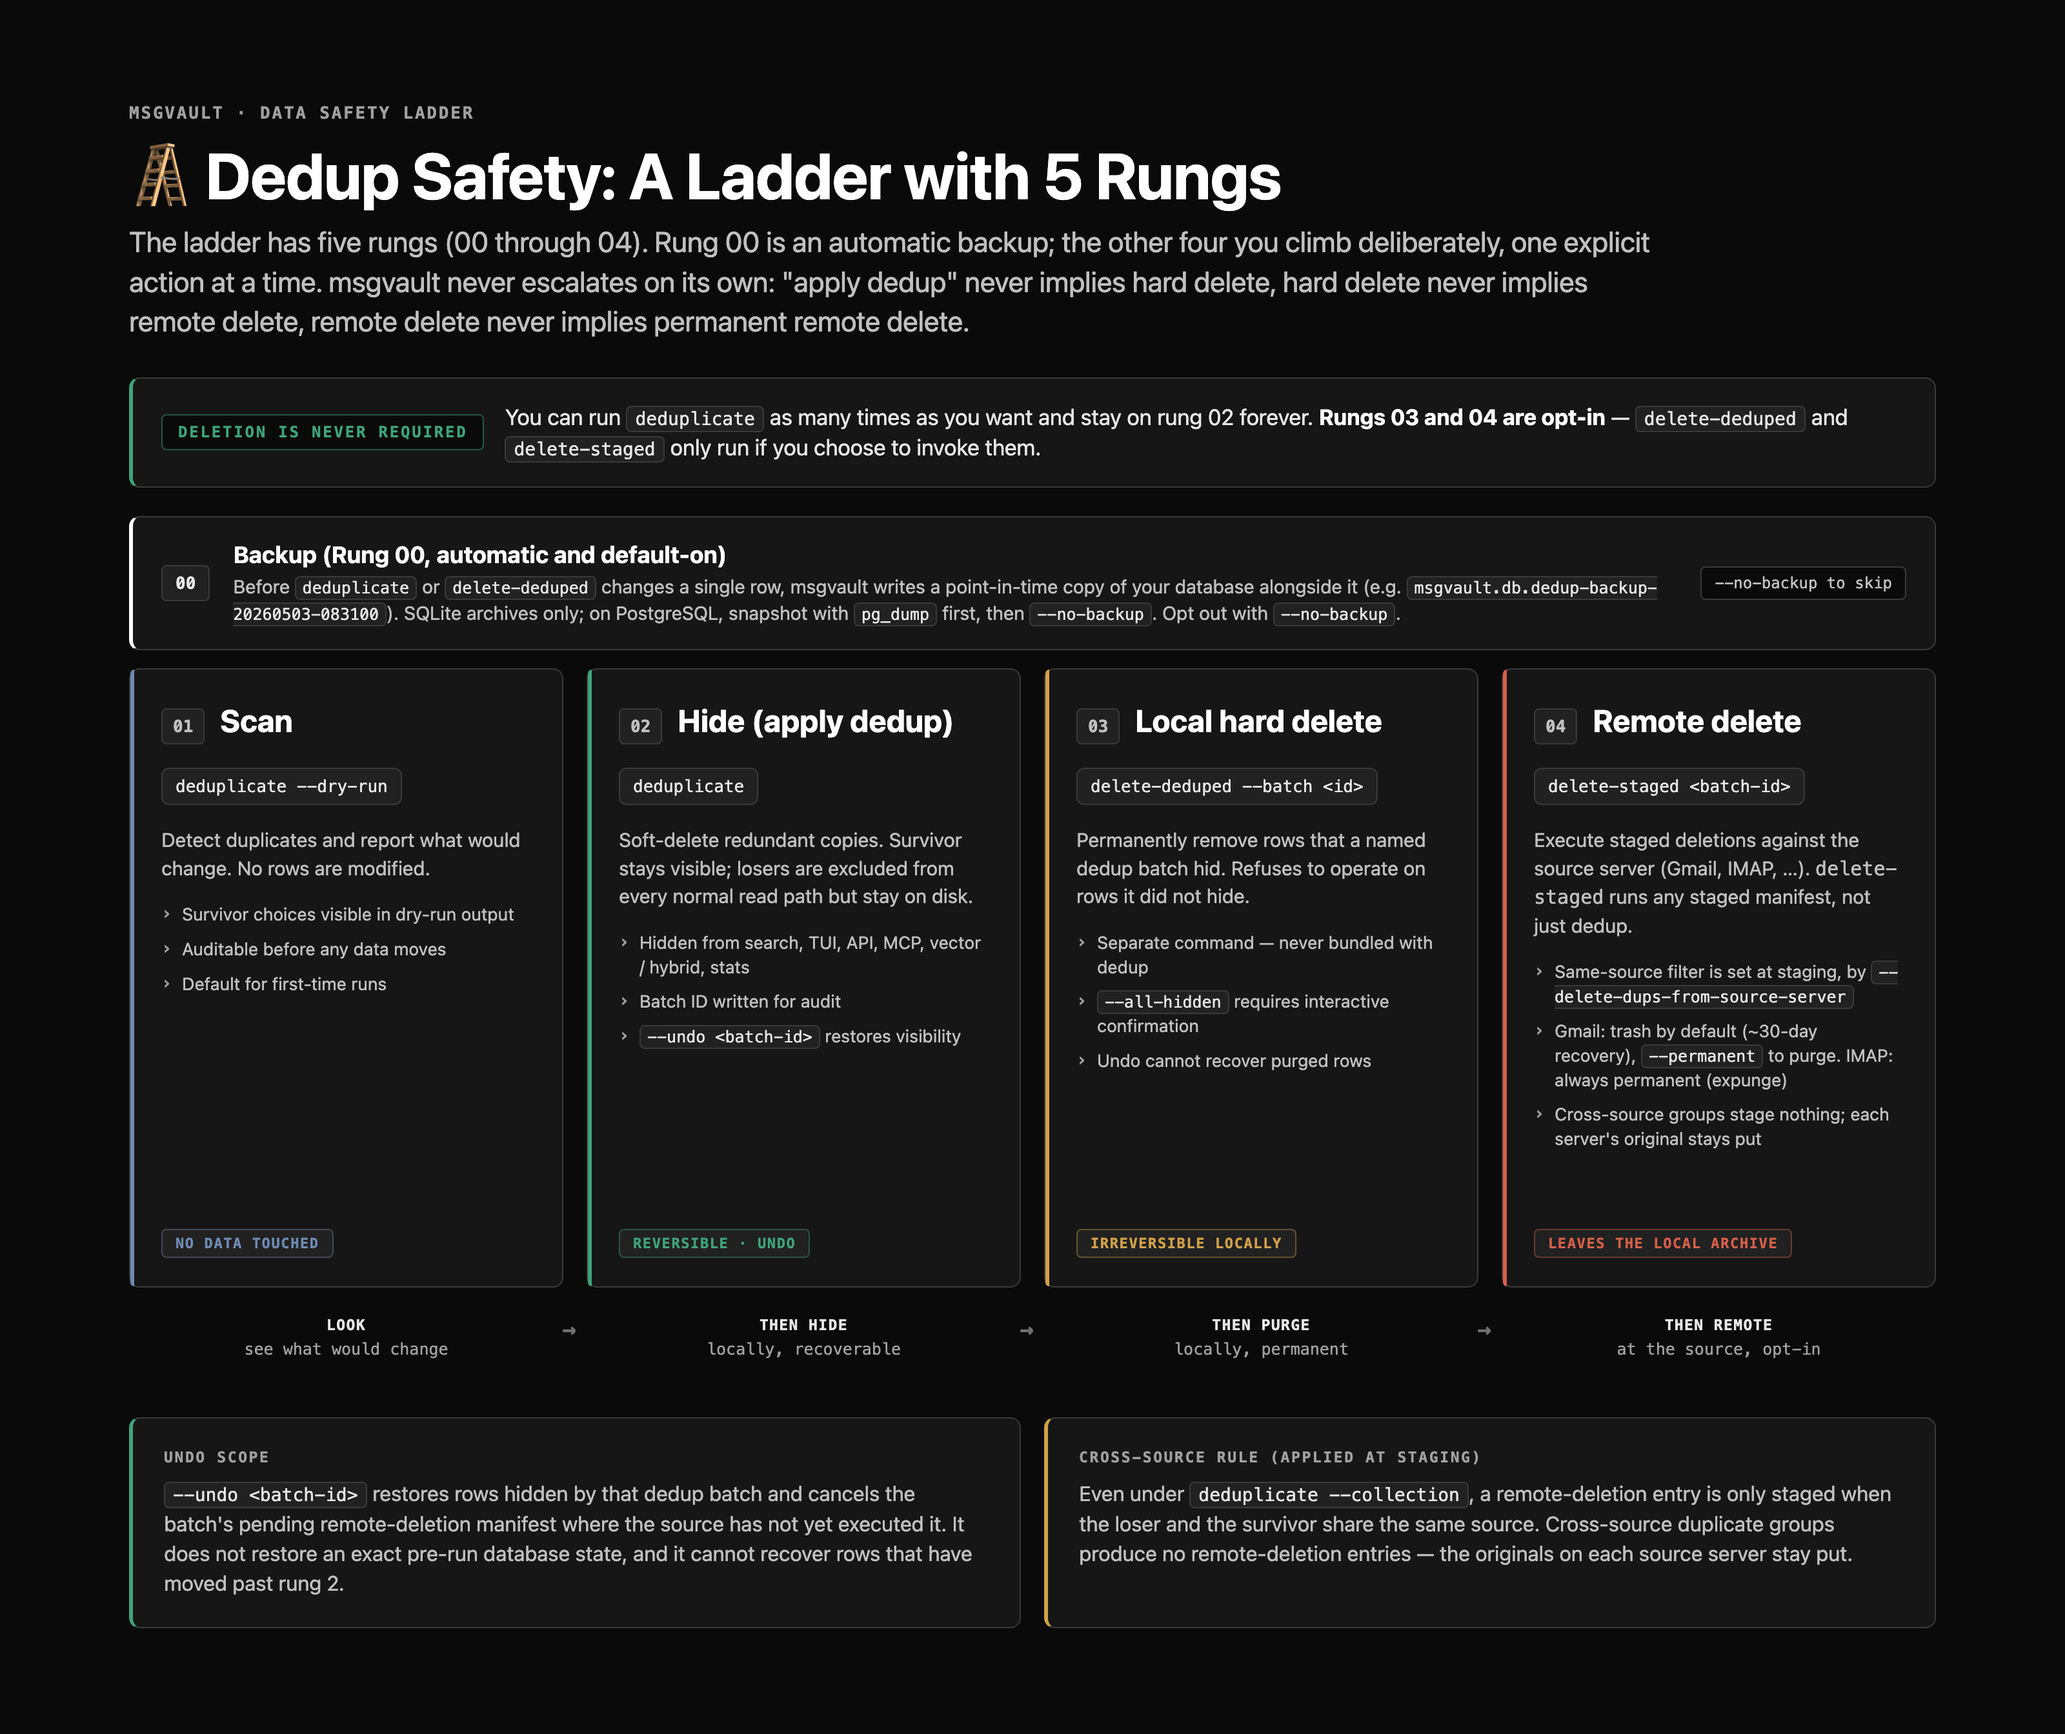
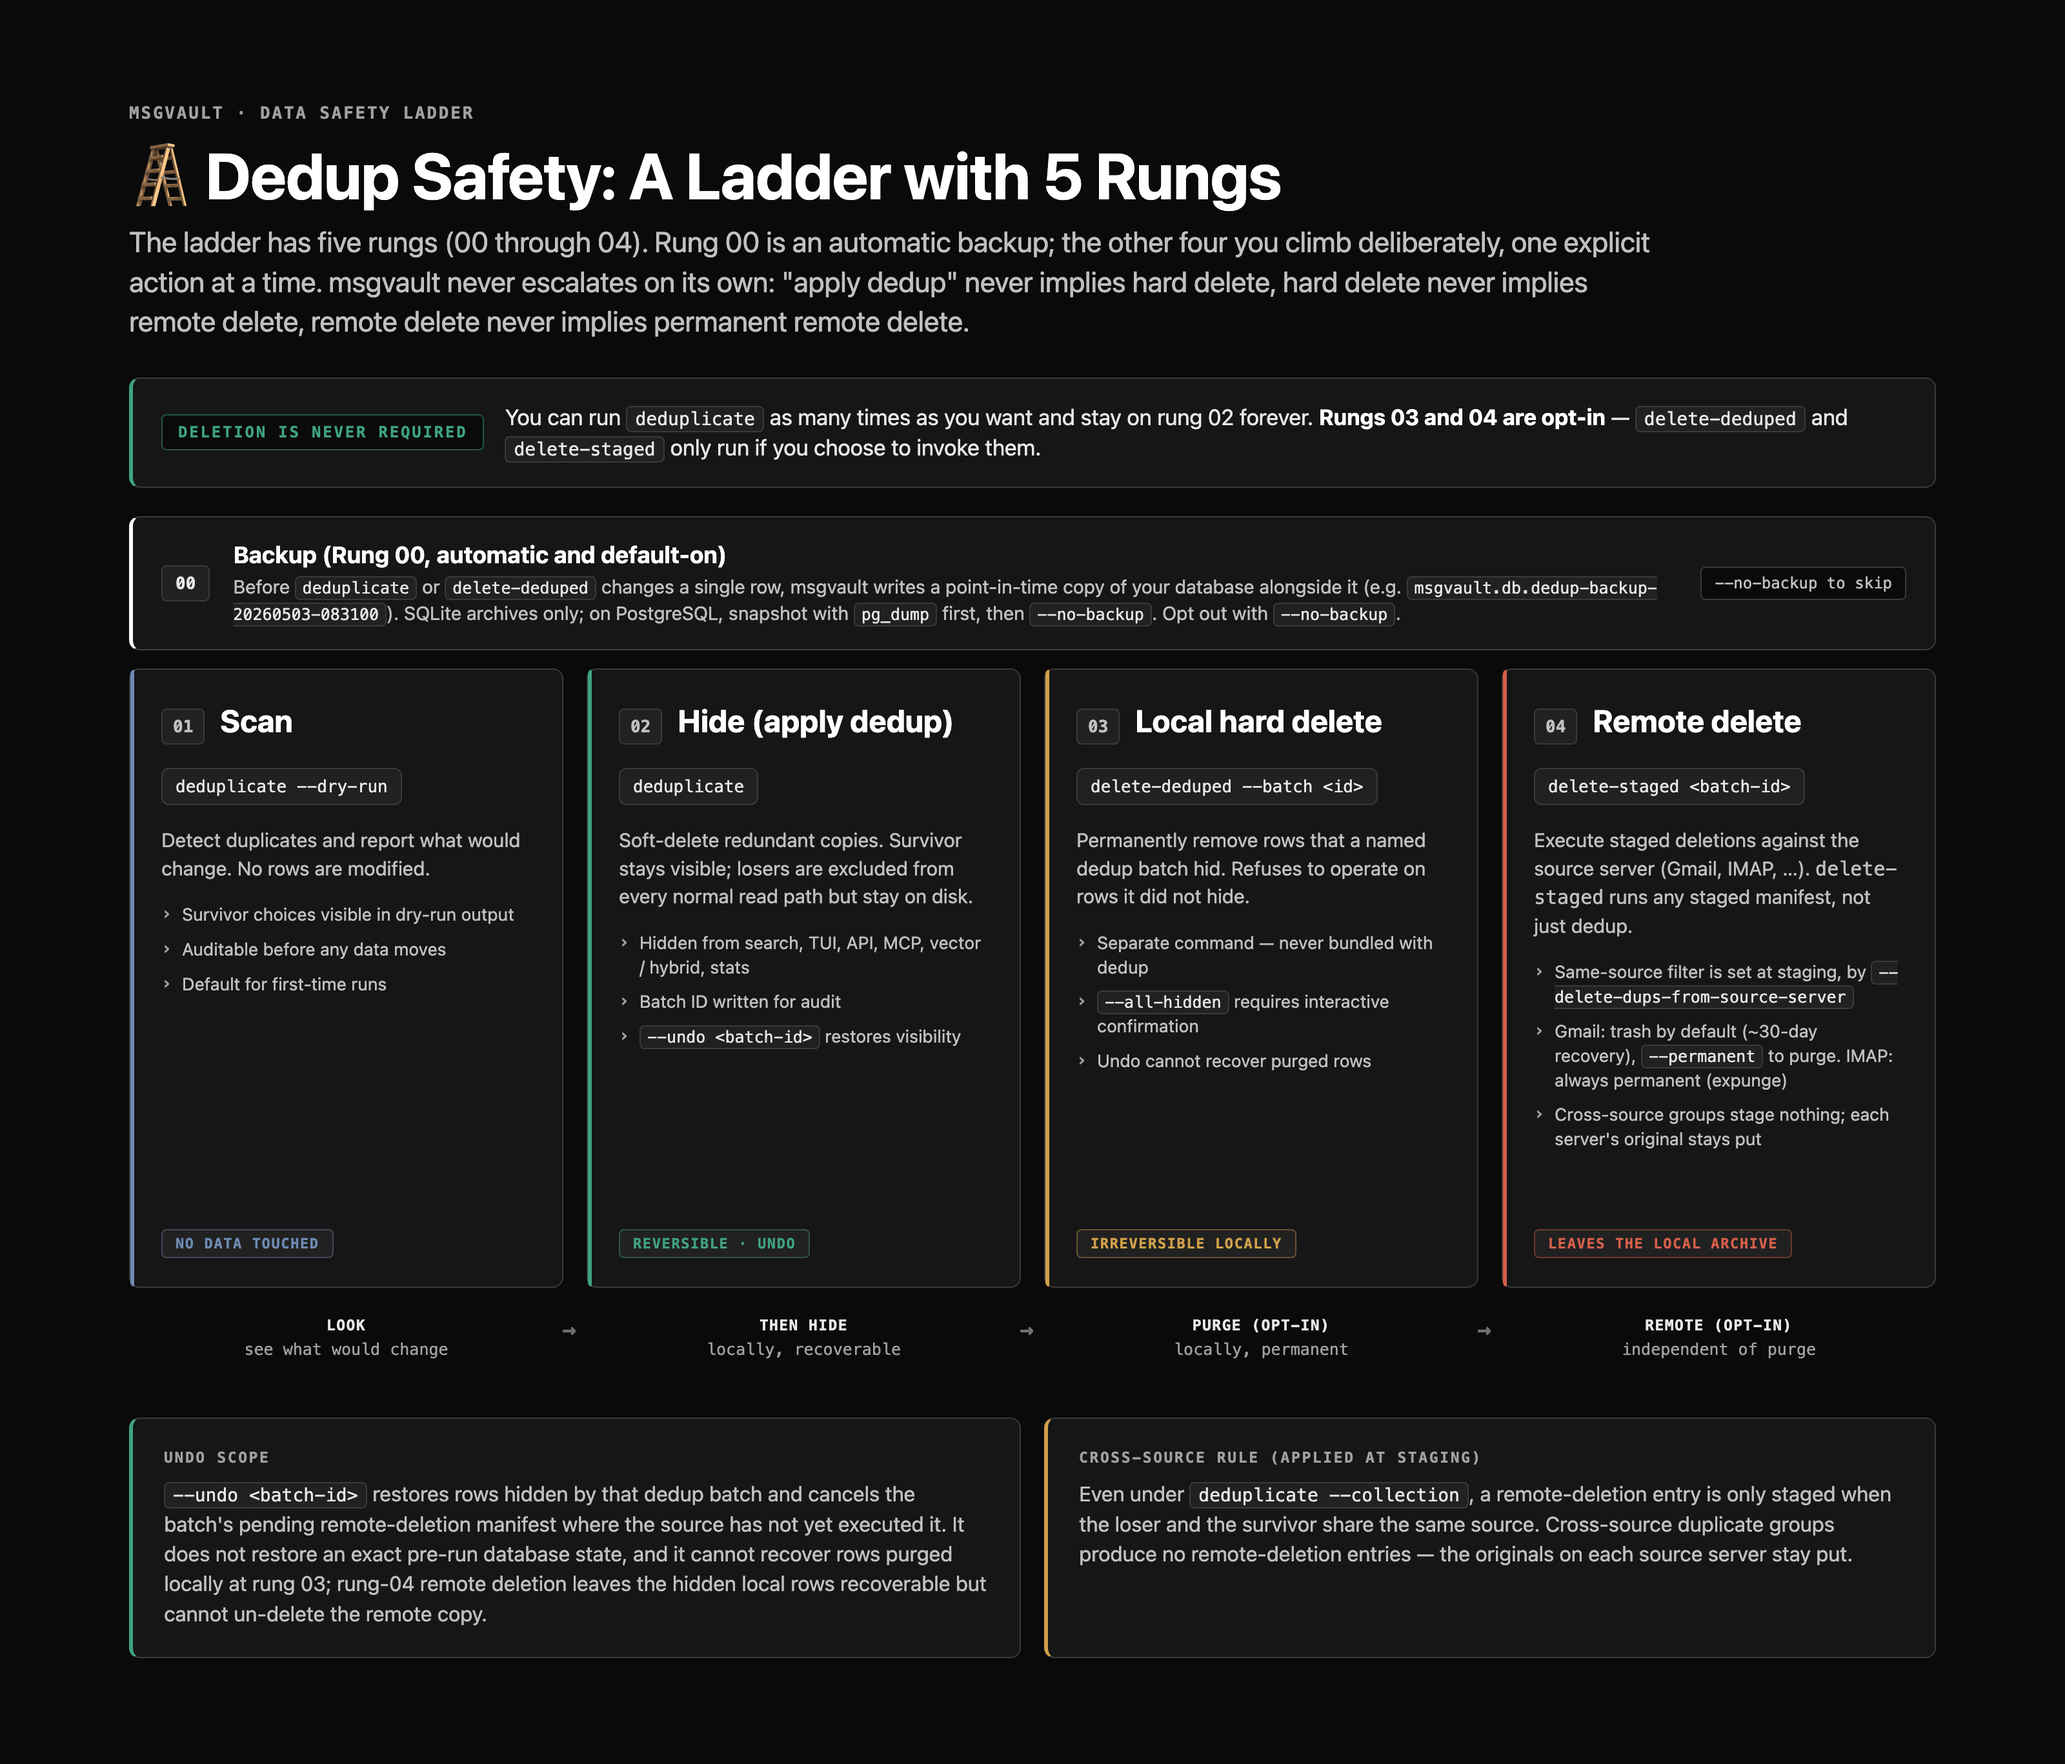
fix: safety-ladder shows rungs 03/04 as independent and corrects undo recoverability
The bottom arrows read 'then purge -> then remote', implying remote deletion
requires a local hard delete first; relabel rungs 03/04 as independent opt-ins.
The undo note said undo cannot recover rows 'past rung 2', but rung-04 remote
deletion leaves the local rows untouched and recoverable; only rung-03 local
purge is unrecoverable. PR #31 review iter 5 (codex Medium).

diff --git a/diagrams/safety-ladder-concept.html b/diagrams/safety-ladder-concept.html
@@ -503,14 +503,14 @@
     <div class="arrows" aria-hidden="true">
       <div class="arrow-cell"><strong>look</strong>see what would change</div>
       <div class="arrow-cell"><strong>then hide</strong>locally, recoverable</div>
-      <div class="arrow-cell"><strong>then purge</strong>locally, permanent</div>
-      <div class="arrow-cell"><strong>then remote</strong>at the source, opt-in</div>
+      <div class="arrow-cell"><strong>purge (opt-in)</strong>locally, permanent</div>
+      <div class="arrow-cell"><strong>remote (opt-in)</strong>independent of purge</div>
     </div>
 
     <section class="footnotes">
       <div class="note undo">
         <span class="note-title">Undo scope</span>
-        <code>--undo &lt;batch-id&gt;</code> restores rows hidden by that dedup batch and cancels the batch's pending remote-deletion manifest where the source has not yet executed it. It does not restore an exact pre-run database state, and it cannot recover rows that have moved past rung 2.
+        <code>--undo &lt;batch-id&gt;</code> restores rows hidden by that dedup batch and cancels the batch's pending remote-deletion manifest where the source has not yet executed it. It does not restore an exact pre-run database state, and it cannot recover rows purged locally at rung 03; rung-04 remote deletion leaves the hidden local rows recoverable but cannot un-delete the remote copy.
       </div>
       <div class="note cross">
         <span class="note-title">Cross-source rule (applied at staging)</span>
